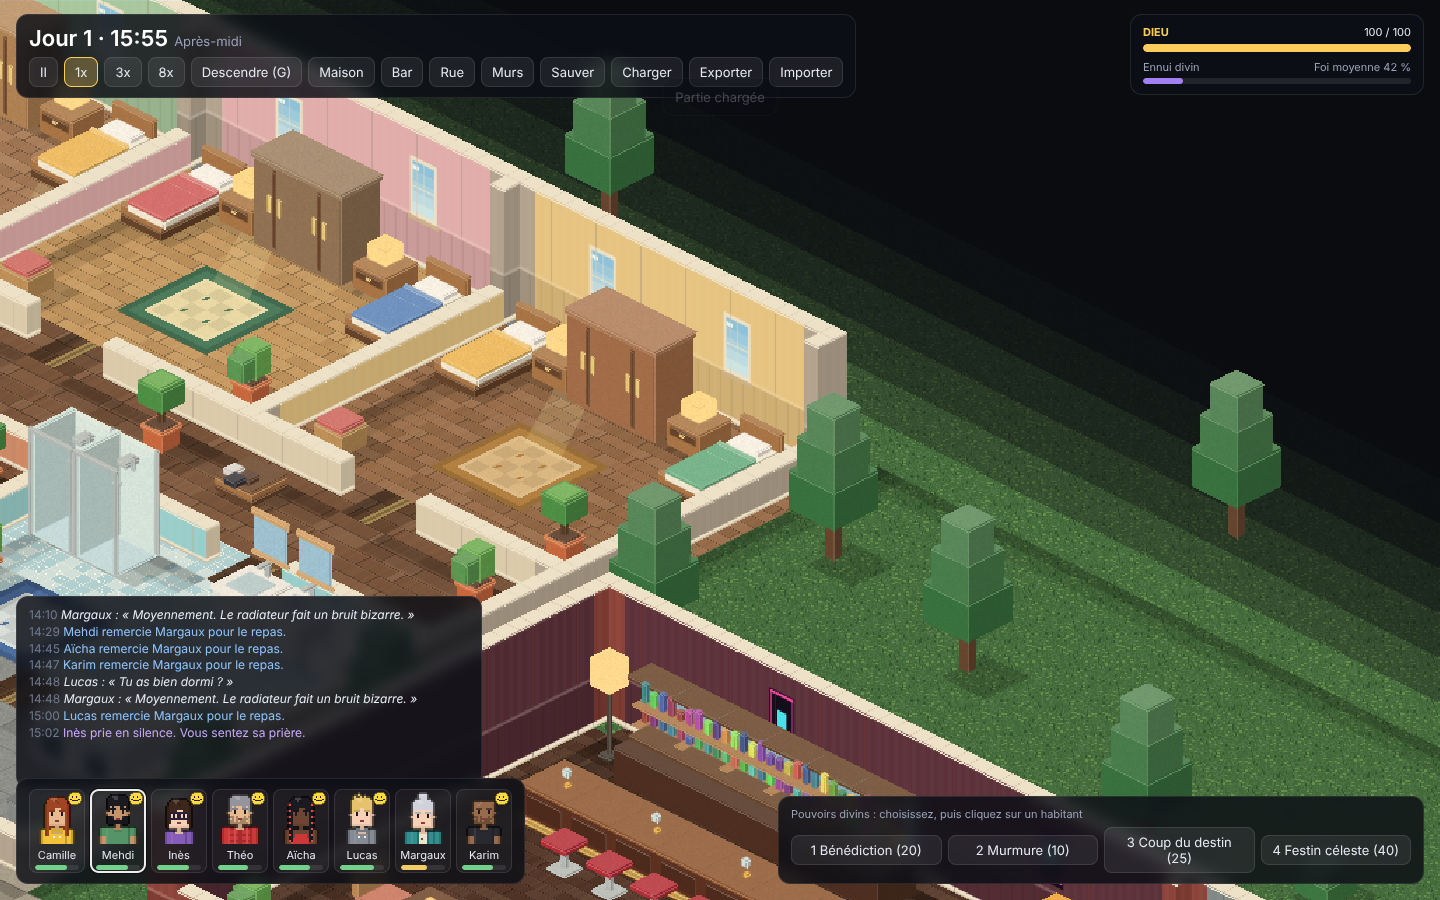
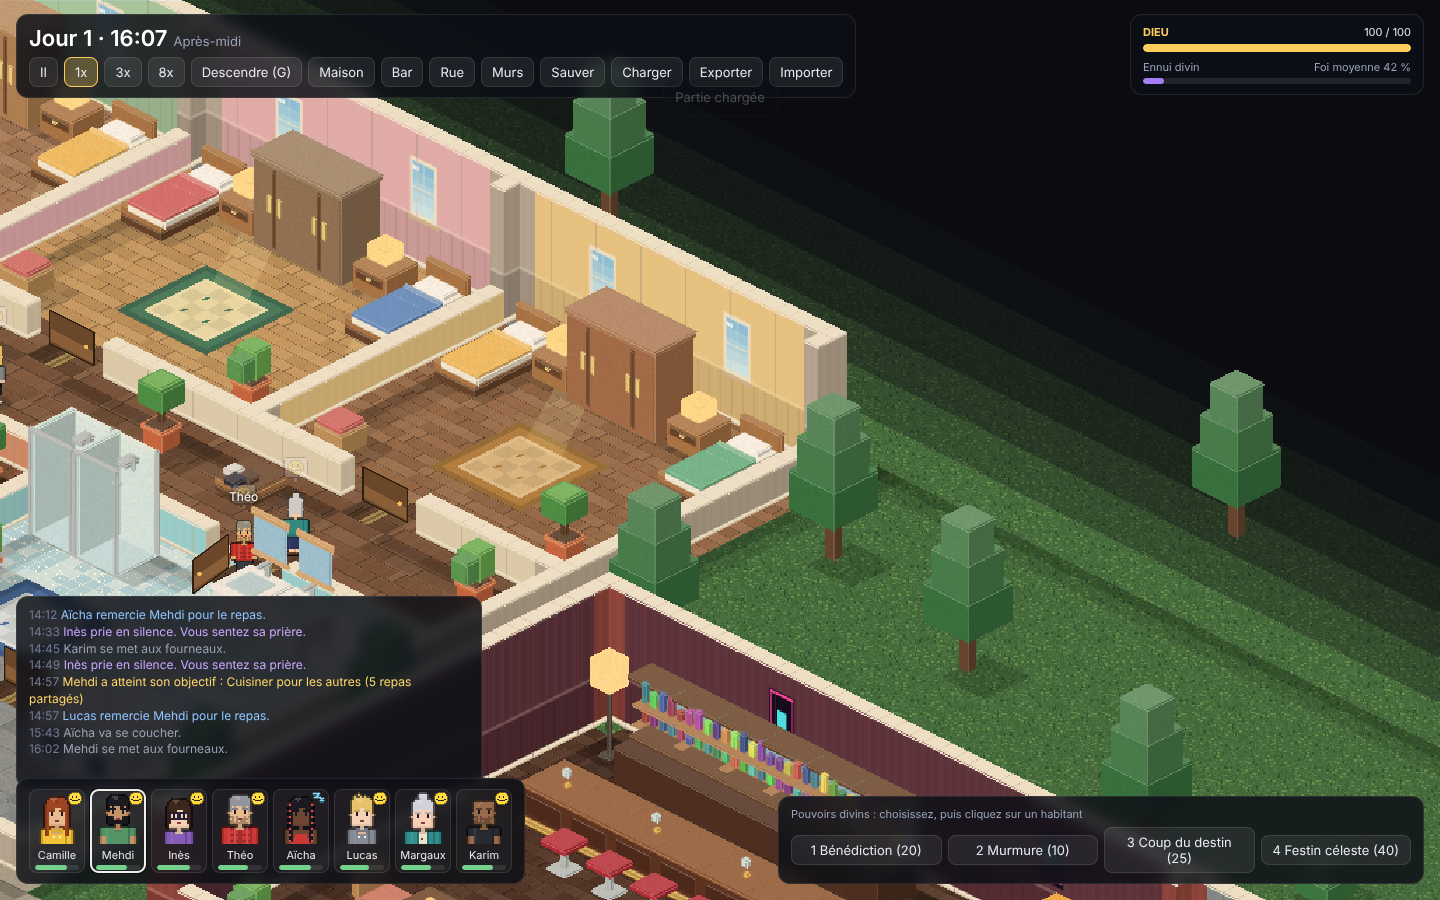
FREE LIFE : portes à battant qui s'ouvrent à l'approche, entrée Performances (FPS) dans le menu mobile, test de dialogue avec vue dégagée
Claude-Session: https://claude.ai/code/session_01TgHL2ERFFt3nTP8cEL1RNQ

diff --git a/src/view/scene.ts b/src/view/scene.ts
@@ -12,6 +12,7 @@ import { cellKey, toGrid, toScreen, zOf } from './iso';
 import { texKey } from './texreg';
 import { Hud } from '../ui/hud';
 import { pickProp } from './picking';
+import { Doors } from './doors';
 import * as Act from '../sim/interact';
 
 export const SPEEDS = [0, 1, 3, 8];
@@ -30,7 +31,7 @@ export class GameScene extends Phaser.Scene {
   floorSprite!: Phaser.GameObjects.Image; sunSprite!: Phaser.GameObjects.Image;
   mode: 'god' | 'human' = 'god'; wallMode = 1; speedIndex = 1; selectedId = -1; hoverId = -1; follow = false; autosave = 0; fxT = 0;
   tx = 0; ty = 0; tz = 1; cx = 0; cy = 0; cz = 1; minZoom = 0.35; maxZoom = 3.5; bounds = { x: 0, y: 0, w: 0, h: 0 };
-  analog = { x: 0, y: 0, mag: 0 }; dest: { x: number; y: number; t0: number; fade: number } | null = null;
+  doors!: Doors; analog = { x: 0, y: 0, mag: 0 }; dest: { x: number; y: number; t0: number; fade: number } | null = null;
   keys = new Set<string>(); runLatch = false; params = new URLSearchParams(location.search);
   private pan = { down: false, moved: false, sx: 0, sy: 0, button: 0, t: 0 }; private pinch = 0; private lastClick = { t: 0, id: -1 };
 
@@ -66,7 +67,7 @@ export class GameScene extends Phaser.Scene {
 
   // ------------------------------------------------------------------ construction de la vue
   buildView() {
-    this.bakeFloor(); this.buildWalls(); this.buildFurniture(); this.buildDecor();
+    this.bakeFloor(); this.buildWalls(); this.buildFurniture(); this.doors = new Doors(this, this.world, (x, y) => this.wallHeight(x, y)); this.buildDecor();
     this.chars = this.world.chars.map((c) => new CharView(this, c, this.world));
     this.fx = this.add.graphics().setDepth(3800);
     this.lighting = new Lighting(this, this.world);
@@ -149,6 +150,7 @@ export class GameScene extends Phaser.Scene {
     this.applyWalls();
   }
   applyWalls() {
+    this.doors?.invalidate();
     for (const wd of this.walls) {
       const h = this.wallHeight(wd.x, wd.y); let mask = 0;
       if (wd.x > 0 && L.isWall(wd.x - 1, wd.y)) mask |= 1; if (wd.y > 0 && L.isWall(wd.x, wd.y - 1)) mask |= 2;
@@ -311,6 +313,8 @@ export class GameScene extends Phaser.Scene {
     this.hud.toast('Vous reprenez votre place de dieu. L\'avatar reste là où vous l\'avez laissé.');
   }
   focusZone(z: 'house' | 'bar' | 'street') { this.follow = false; const t = z === 'house' ? { x: 14, y: 9, z: 0.95 } : z === 'bar' ? { x: 40, y: 13, z: 1.35 } : { x: 26, y: 20.5, z: 0.8 }; const p = toScreen(t.x, t.y); this.tx = p.x; this.ty = p.y; this.tz = t.z; }
+  /** Le joueur peut-il parler à ce personnage depuis sa position (à portée et sans mur entre eux) ? */
+  canTalkTo(id: number) { return Act.nearby(this.world, this.world.avatar).some((i) => i.npc?.id === id); }
   interact() {
     const w = this.world; const av = w.avatar; if (this.hud.dialogueOpen()) return; const list = Act.nearby(w, av);
     if (!list.length) { this.hud.toast('Rien à faire ici'); return; }
@@ -383,7 +387,7 @@ export class GameScene extends Phaser.Scene {
     { const c = this.camLimits(); this.cx = Math.max(c.x0, Math.min(c.x1, this.cx)); this.cy = Math.max(c.y0, Math.min(c.y1, this.cy)); }
     const cam = this.cameras.main; cam.setZoom(this.cz); cam.centerOn(Math.round(this.cx * this.cz) / this.cz, Math.round(this.cy * this.cz) / this.cz);
     // vue
-    this.syncProps(); this.syncFeast(); this.syncPlants();
+    this.syncProps(); this.syncFeast(); this.syncPlants(); this.doors.update(dt);
     for (const cv of this.chars) cv.update(dt, cv.sim.id === this.selectedId || (this.mode === 'human' && cv.sim.kind === 'avatar'), cv.sim.id === this.hoverId);
     this.lighting.update(dt); this.lighting.render(); this.sunSprite.setAlpha(this.lighting.daylight * 0.9);
     this.drawFx(dt); this.hud.update(dt);

diff --git a/src/ui/mobile.ts b/src/ui/mobile.ts
@@ -49,6 +49,7 @@ const CSS = `
 #rotate{position:fixed;inset:0;z-index:50;background:#0b0c12;color:#e6e9f2;display:none;flex-direction:column;align-items:center;justify-content:center;gap:14px;text-align:center;padding:24px;pointer-events:auto;touch-action:none}
 #ui.mobile.portrait #rotate{display:flex} #rotate .ph{width:54px;height:92px;border:3px solid #fccd5c;border-radius:11px;animation:rot 2.4s ease-in-out infinite}
 @keyframes rot{0%,20%{transform:rotate(0)}60%,100%{transform:rotate(-90deg)}}
+#ui.mobile #fps{left:calc(var(--sl) + 14px);top:calc(var(--st) + 62px);font-size:11px;text-shadow:0 0 3px #000,0 0 3px #000}
 #ui.mobile #toast{top:calc(var(--st) + 52px);font-size:12px;max-width:60vw} #ui.mobile #prompt{font-size:11px}
 #ui.mobile #dlg{bottom:auto;top:calc(var(--st) + 6px);width:min(640px,calc(100vw - var(--sl) - var(--sr) - 24px));max-height:calc(var(--vh,100vh) - var(--st) - 12px);overflow:auto;touch-action:pan-y;font-size:12px;padding:8px 10px}
 #ui.mobile #dlg .txt{font-size:13px;min-height:0;margin:2px 0 6px} #ui.mobile #dlg .choices{gap:5px} #ui.mobile #dlg .btn{min-height:44px} #ui.mobile #dlg img.pp{width:44px;height:52px} #ui.mobile #dlg .small.dim:last-child{display:none}
@@ -155,7 +156,7 @@ export class MobileUi {
   }
   private bindBtns(sel: string, fn: (b: HTMLElement) => void) { this.el.msheet.querySelectorAll<HTMLElement>(sel).forEach((b) => (b.onclick = () => fn(b))); }
   openMenu() {
-    const god = this.g.mode === 'god'; const items: [string, string][] = god ? [['res', 'Habitants'], ['pow', 'Pouvoirs'], ['lieux', 'Lieux'], ['journal', 'Journal'], ['murs', 'Murs'], ['save', 'Sauvegarder'], ['load', 'Charger'], ['export', 'Exporter'], ['import', 'Importer'], ['help', 'Aide']] : [['inv', 'Inventaire'], ['journal', 'Journal'], ['lieux', 'Lieux'], ['save', 'Sauvegarder'], ['load', 'Charger'], ['export', 'Exporter'], ['import', 'Importer'], ['help', 'Aide']];
+    const god = this.g.mode === 'god'; const items: [string, string][] = god ? [['res', 'Habitants'], ['pow', 'Pouvoirs'], ['lieux', 'Lieux'], ['journal', 'Journal'], ['murs', 'Murs'], ['save', 'Sauvegarder'], ['load', 'Charger'], ['export', 'Exporter'], ['import', 'Importer'], ['fps', 'Performances'], ['help', 'Aide']] : [['inv', 'Inventaire'], ['journal', 'Journal'], ['lieux', 'Lieux'], ['save', 'Sauvegarder'], ['load', 'Charger'], ['export', 'Exporter'], ['import', 'Importer'], ['fps', 'Performances'], ['help', 'Aide']];
     this.show('Menu', `<div class="grid">${items.map(([k, l]) => `<button class="mbtn" data-k="${k}"${k === 'export' || k === 'import' ? ' data-native' : ''}>${l}</button>`).join('')}</div>`);
     this.bindBtns('[data-k]', (b) => this.menuAction(b.dataset.k!));
   }
@@ -164,7 +165,7 @@ export class MobileUi {
     switch (k) {
       case 'res': this.openResidents(); break; case 'pow': this.openPowers(); break; case 'lieux': this.openPlaces(); break; case 'journal': this.openJournal(); break;
       case 'murs': { const m = g.cycleWalls(); this.hud.toast('Murs : ' + ['bas', 'coupés', 'hauts'][m]); this.closeSheet(); break; }
-      case 'save': g.saveGame(); this.closeSheet(); break; case 'load': this.closeSheet(); g.loadGame(); break; case 'export': this.closeSheet(); g.exportGame(); break; case 'import': this.closeSheet(); g.importGame(); break; case 'help': this.openHelp(); break;
+      case 'save': g.saveGame(); this.closeSheet(); break; case 'load': this.closeSheet(); g.loadGame(); break; case 'export': this.closeSheet(); g.exportGame(); break; case 'import': this.closeSheet(); g.importGame(); break; case 'fps': this.hud.toggleFps(); this.closeSheet(); break; case 'help': this.openHelp(); break;
       case 'inv': this.closeSheet(); this.hud.toggleInventory(); break;
     }
   }

diff --git a/src/view/doors.ts b/src/view/doors.ts
@@ -1,0 +1,48 @@
+/** Portes : battants qui s'ouvrent à l'approche de tout personnage (rendu uniquement : la simulation garde les portes comme ouvertures libres,
+ *  ce qui conserve les trajets, les sauvegardes et le comportement des habitants). Les passages larges (plusieurs cases de porte côte à côte) restent des arcades. */
+import Phaser from 'phaser';
+import * as L from '../sim/layout';
+import type { World } from '../sim/world';
+import { cellKey, toScreen, zOf } from './iso';
+
+interface Door { x: number; y: number; alongX: boolean; sign: number; open: number; drawn: number; g: Phaser.GameObjects.Graphics }
+const REACH = 1.5;
+
+export class Doors {
+  list: Door[] = [];
+  constructor(private scene: Phaser.Scene, private world: World, private heightAt: (x: number, y: number) => number) {
+    for (let y = 0; y < L.H; y++) for (let x = 0; x < L.W; x++) {
+      if (!L.isDoor(x, y)) continue;
+      const alongX = L.isWall(x - 1, y) && L.isWall(x + 1, y), alongY = L.isWall(x, y - 1) && L.isWall(x, y + 1);
+      if (alongX === alongY) continue; // arcade (porte large) ou cas ambigu : pas de battant
+      const g = scene.add.graphics().setDepth(zOf(cellKey(x, y)) + 2);
+      const out = alongX ? L.isOutdoor(x, y + 1) : L.isOutdoor(x + 1, y); // le battant s'ouvre vers l'intérieur, jamais sur la rue
+      this.list.push({ x, y, alongX, sign: out ? -1 : 1, open: 0, drawn: -1, g });
+    }
+  }
+  /** 0 (fermée) .. 1 (grande ouverte) pour la porte de la case donnée ; -1 si aucun battant. */
+  openness(x: number, y: number) { return this.list.find((d) => d.x === x && d.y === y)?.open ?? -1; }
+  /** Force le redessin (la hauteur des murs a changé). */
+  invalidate() { for (const d of this.list) d.drawn = -1; }
+  update(dt: number) {
+    const k = Math.min(1, dt * 9);
+    for (const d of this.list) {
+      const cx = d.x + 0.5, cy = d.y + 0.5; let near = false;
+      for (const c of this.world.chars) if (!c.away && Math.hypot(c.pos.x - cx, c.pos.y - cy) < REACH) { near = true; break; }
+      d.open += ((near ? 1 : 0) - d.open) * k; if (d.open < 0.01) d.open = 0; if (d.open > 0.99) d.open = 1;
+      if (Math.abs(d.open - d.drawn) > 0.004) { d.drawn = d.open; this.draw(d); }
+    }
+  }
+  private draw(d: Door) {
+    const g = d.g; g.clear(); const h = Math.min(this.heightAt(d.x, d.y), 56); const th = d.open * (Math.PI * 0.44);
+    // charnière et extrémité libre en coordonnées de grille ; le battant pivote de 0 (dans l'ouverture) à ~80° (vers la pièce)
+    const hx = d.alongX ? d.x : d.x + 0.5, hy = d.alongX ? d.y + 0.5 : d.y;
+    const ex = d.alongX ? hx + Math.cos(th) : hx + d.sign * Math.sin(th), ey = d.alongX ? hy + d.sign * Math.sin(th) : hy + Math.cos(th);
+    const a = toScreen(hx, hy), b = toScreen(ex, ey);
+    const pts = [{ x: a.x, y: a.y }, { x: b.x, y: b.y }, { x: b.x, y: b.y - h }, { x: a.x, y: a.y - h }];
+    g.fillStyle(0x6b4a2f, 1); g.fillPoints(pts, true);
+    g.fillStyle(0x8a6240, 1); g.fillPoints([{ x: a.x, y: a.y - 2 }, { x: b.x, y: b.y - 2 }, { x: b.x, y: b.y - h * 0.45 }, { x: a.x, y: a.y - h * 0.45 }].map((p, i) => ({ x: p.x + (i === 1 || i === 2 ? -1 : 1), y: p.y })), true);
+    g.lineStyle(1, 0x2f1f12, 1); g.strokePoints(pts, true);
+    const kx = a.x + (b.x - a.x) * 0.82, ky = a.y + (b.y - a.y) * 0.82 - h * 0.45; g.fillStyle(0xf2c761, 1); g.fillCircle(kx, ky, 1.6);
+  }
+}
